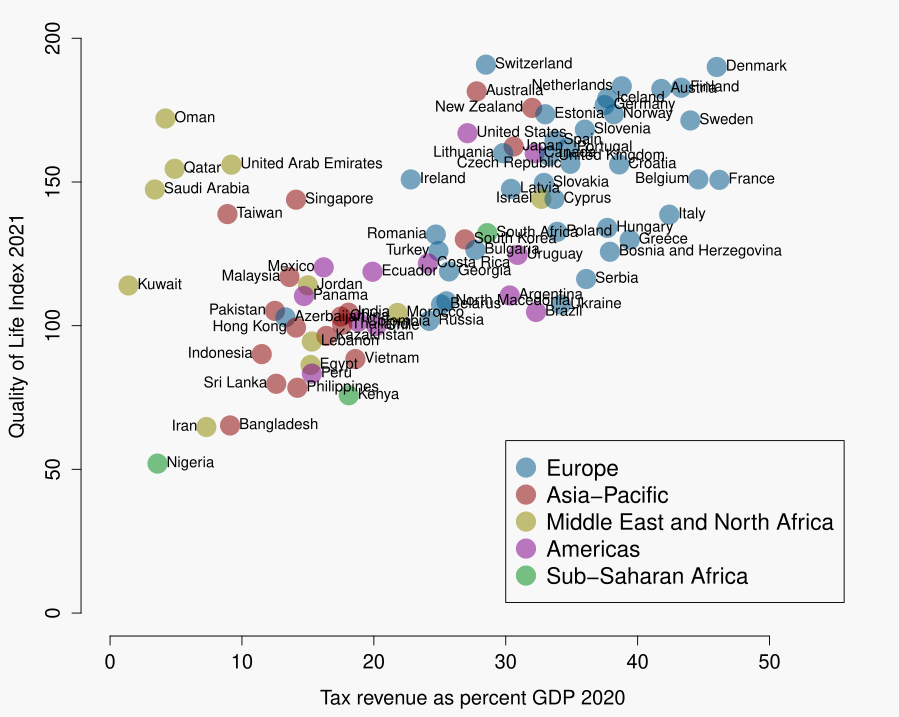
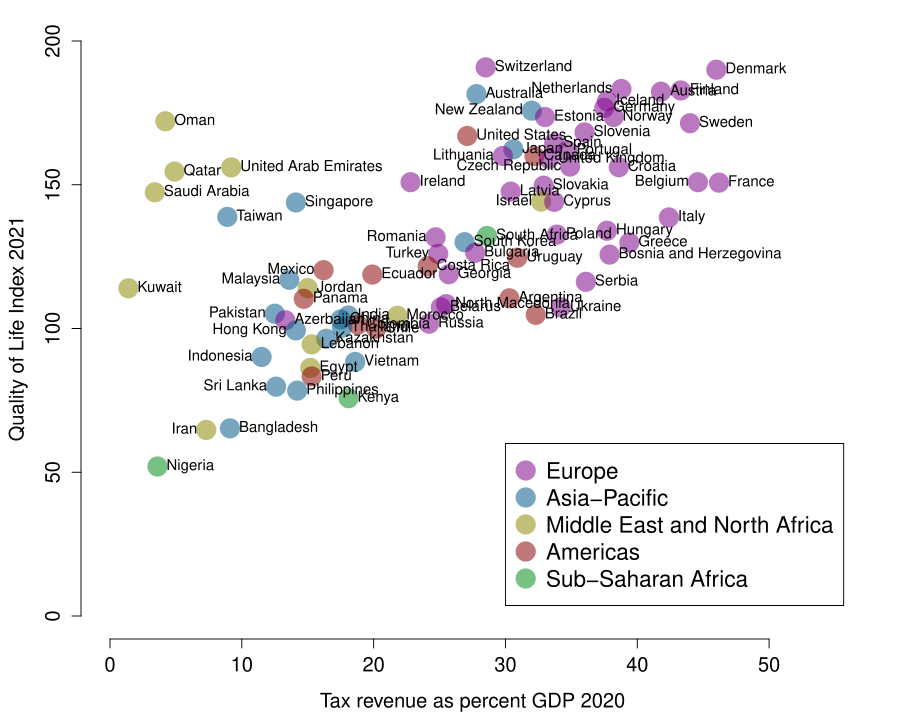
add linear model

diff --git a/quality_of_life/README.md b/quality_of_life/README.md
@@ -1,6 +1,6 @@
 # global quality of life #
 
-![plot of quality of life against tax revenue](https://github.com/wrf/misc-analyses/blob/master/quality_of_life/images/qol_vs_tax_revenue_v1.png)
+![plot of quality of life against tax revenue](https://github.com/wrf/misc-analyses/blob/master/quality_of_life/images/qol_vs_tax_revenue_v2.png)
 
 [CTHI interactive map](https://cthi.taxjustice.net/en/cthi/interactive-map)
 
